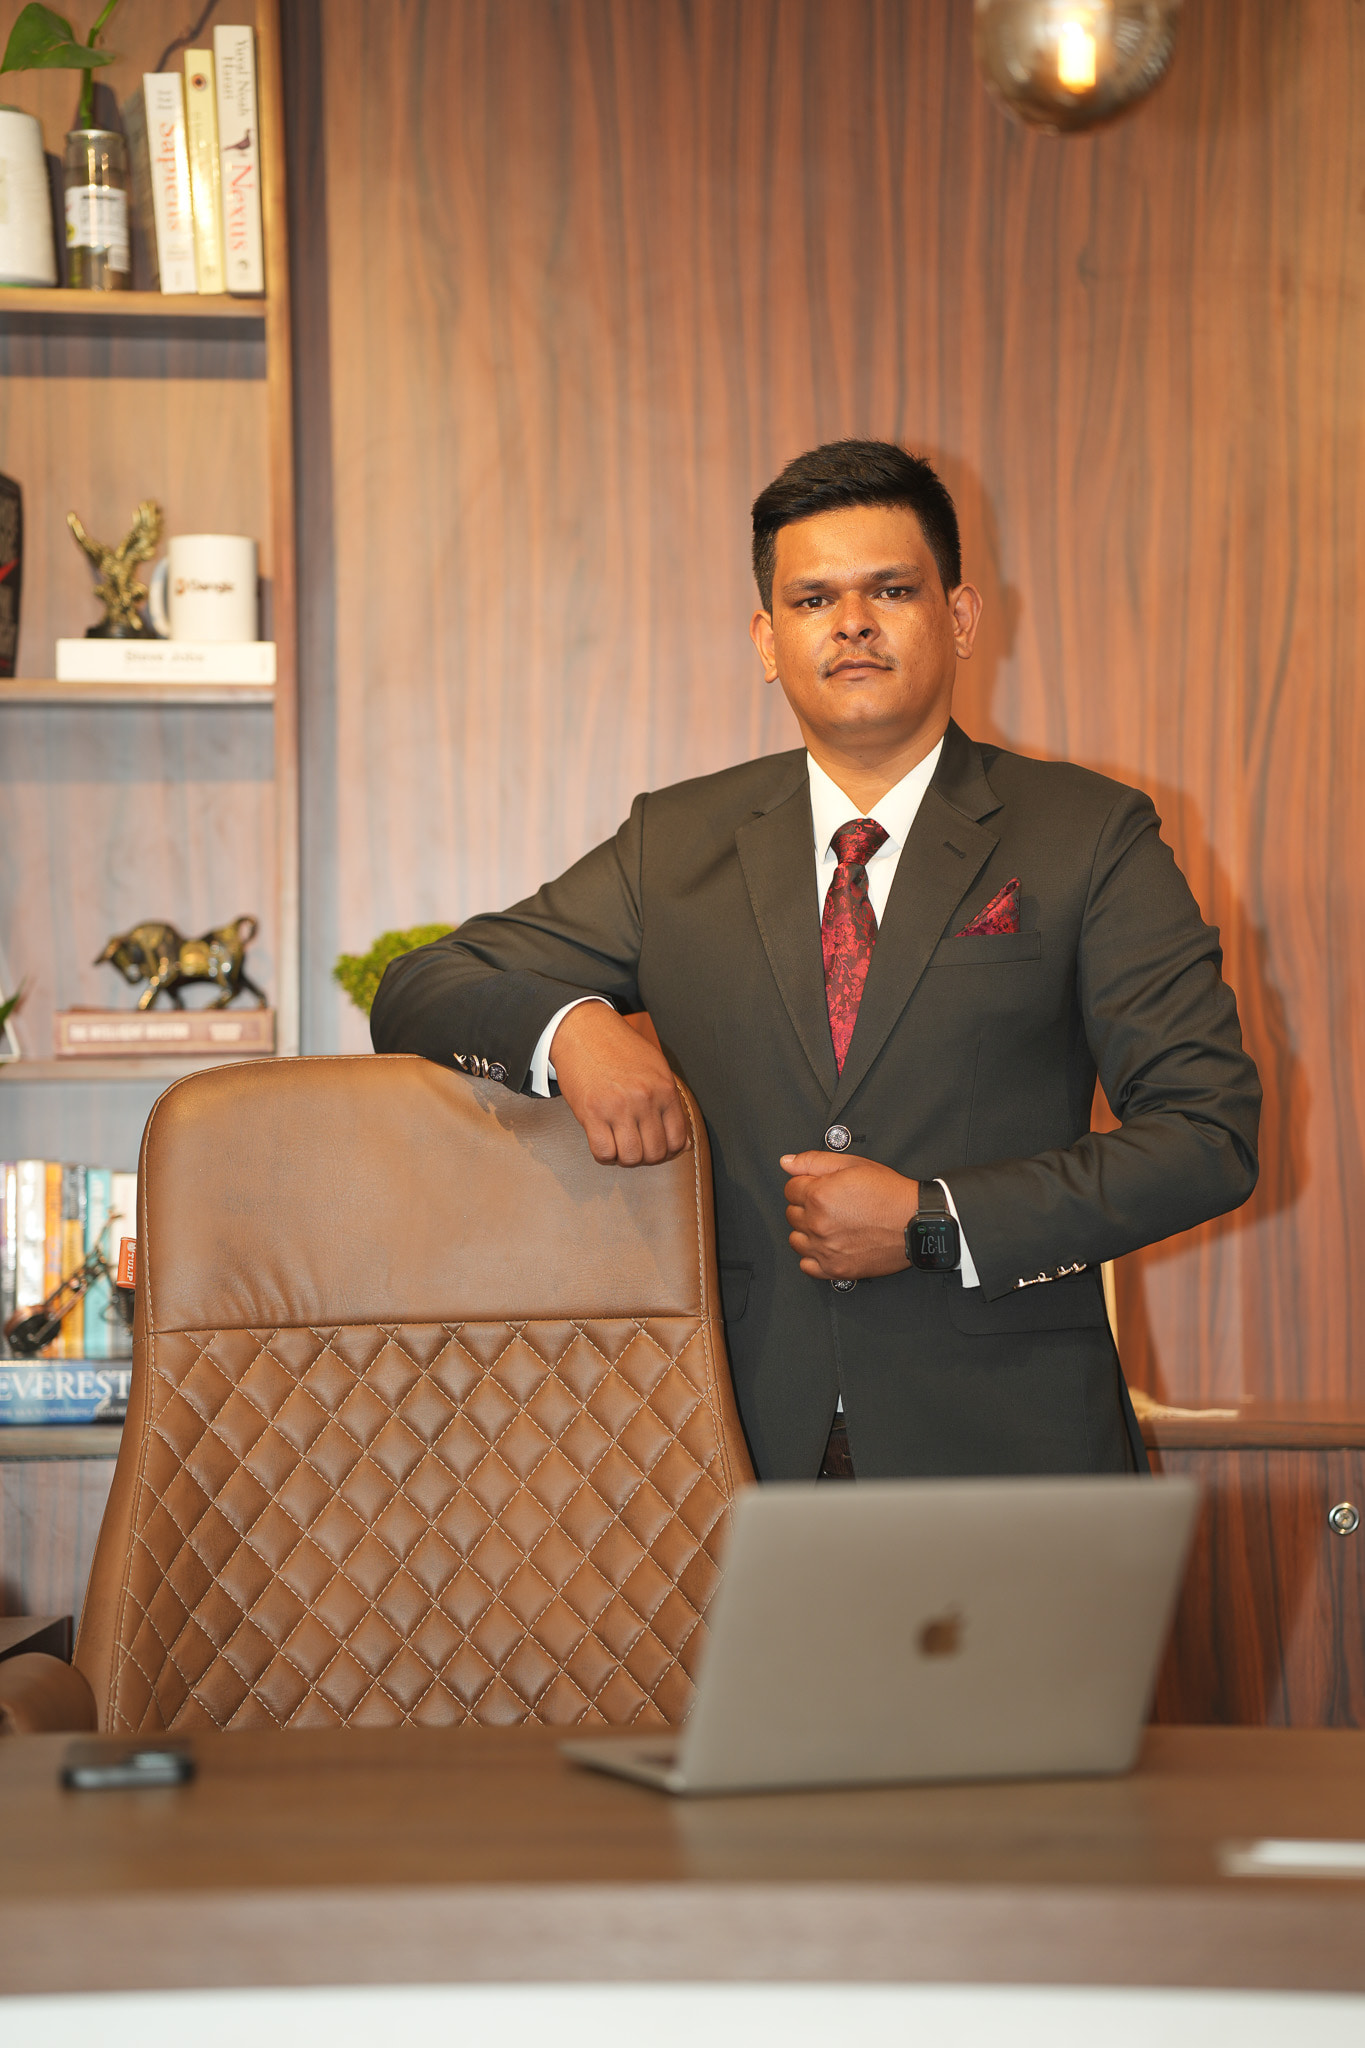
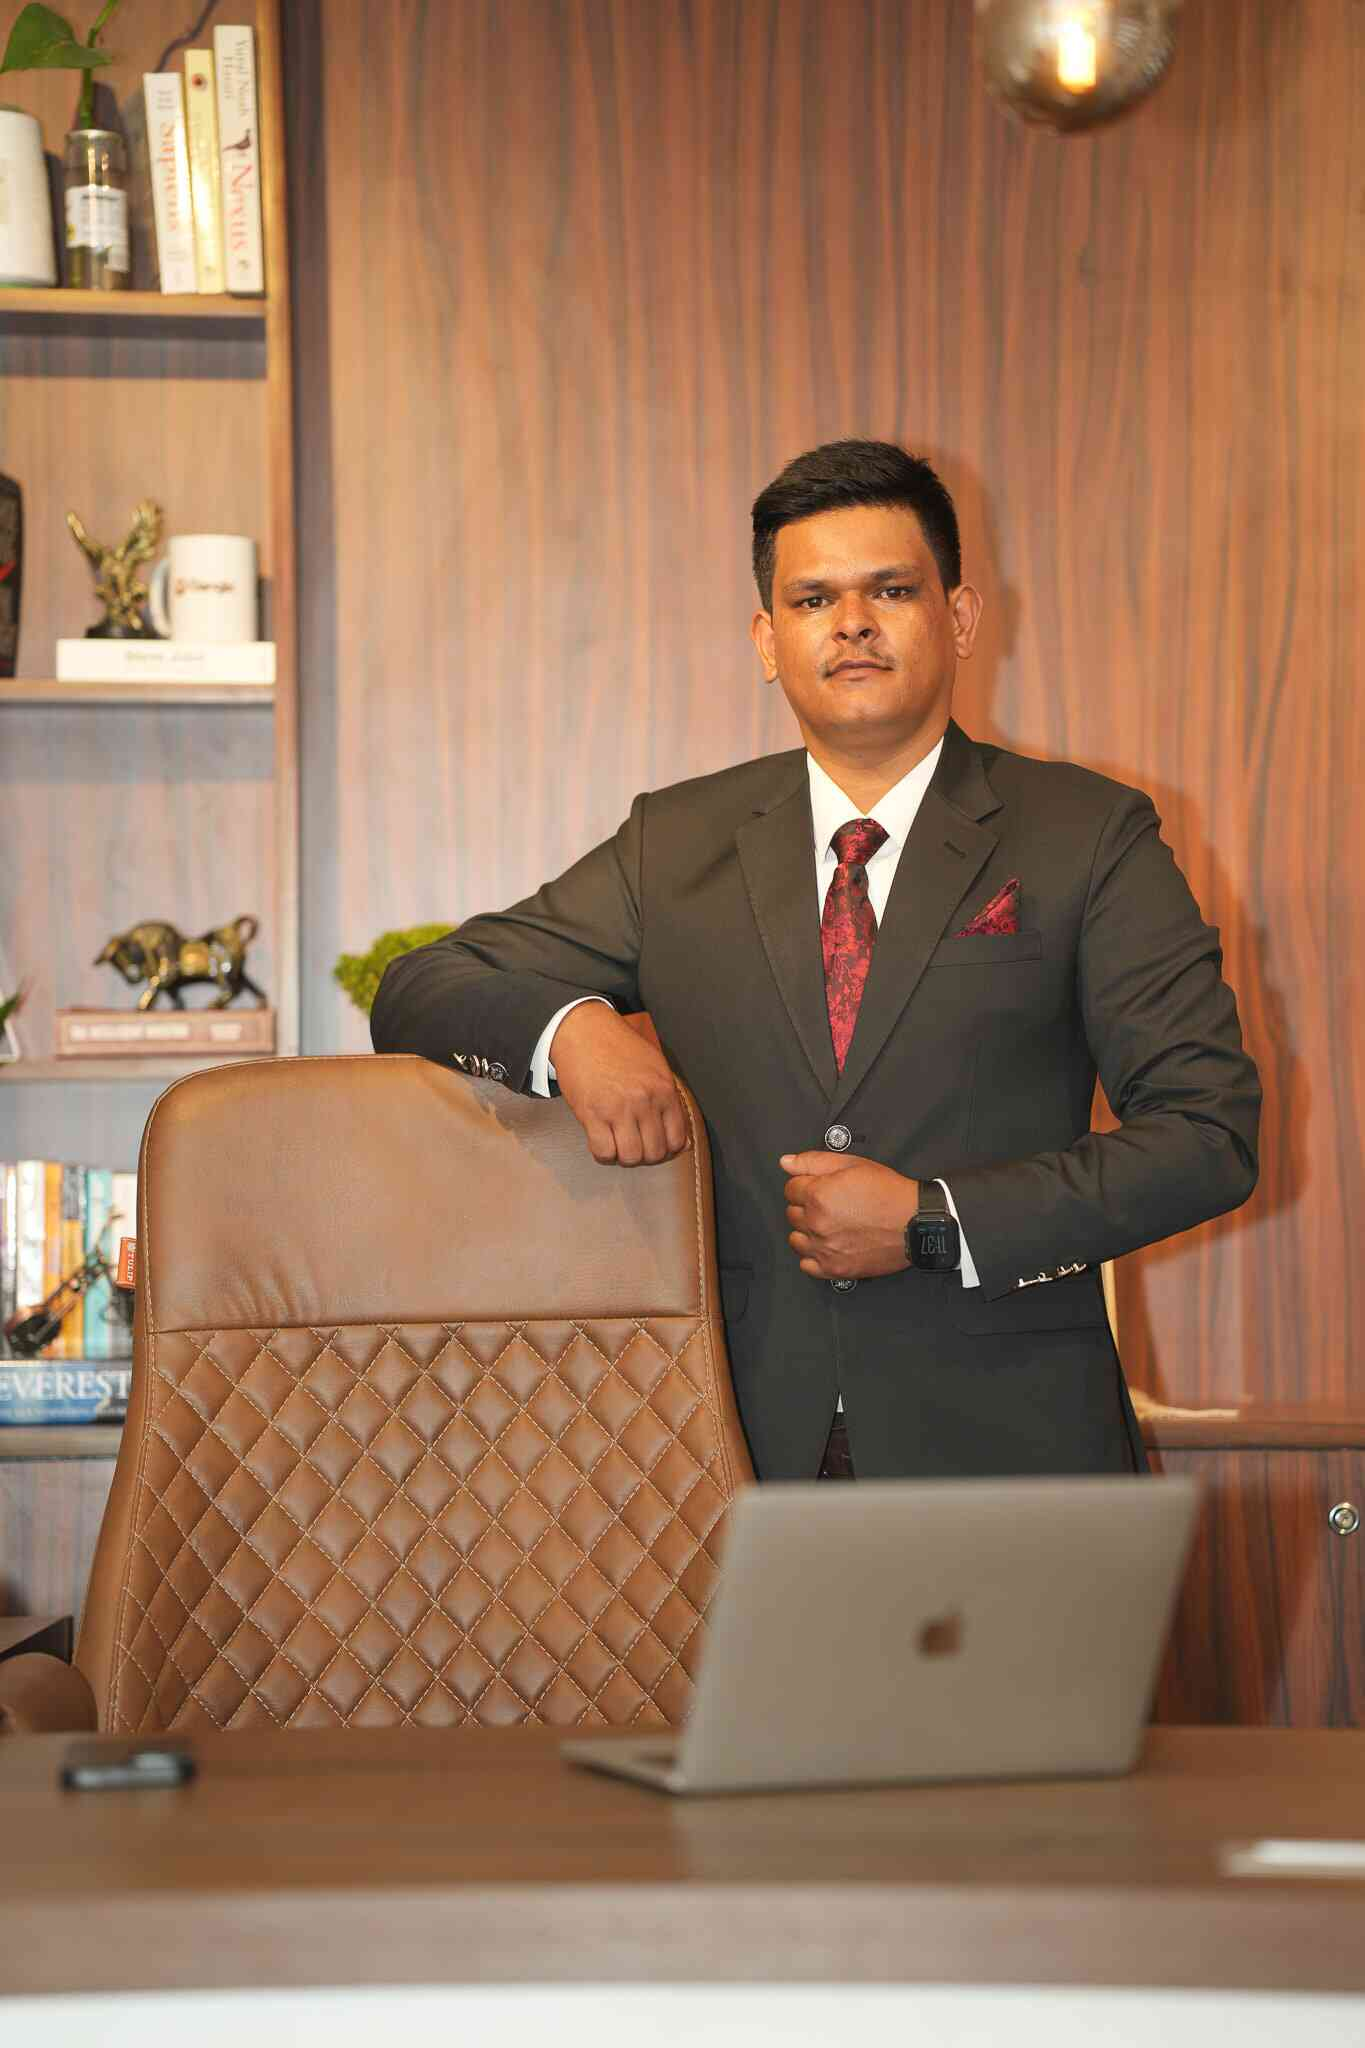
overall change

diff --git a/src/components/About/OurStory/OurStoryAnimation2.jsx b/src/components/About/OurStory/OurStoryAnimation2.jsx
@@ -49,7 +49,7 @@ const OurStoryAnimation2 = () => {
 
       if (!car || !path || !section) return;
 
-      // Kill any existing animations
+      // Kill any existing animations first
       gsap.killTweensOf(car);
       ScrollTrigger.getAll().forEach((trigger) => {
         if (trigger.vars.trigger === section) {
@@ -57,12 +57,13 @@ const OurStoryAnimation2 = () => {
         }
       });
 
-      // Clear transforms
+      // Clear any existing transforms
       gsap.set(car, { clearProps: "all" });
 
+      // Set initial position at the start of the path
       gsap.set(car, {
         motionPath: {
-          path,
+          path: path,
           align: path,
           alignOrigin: [0.5, 0.5],
           autoRotate: true,
@@ -72,9 +73,10 @@ const OurStoryAnimation2 = () => {
         immediateRender: true,
       });
 
+      // Create the scroll-triggered animation
       motionTween = gsap.to(car, {
         motionPath: {
-          path,
+          path: path,
           align: path,
           alignOrigin: [0.5, 0.5],
           autoRotate: true,
@@ -86,6 +88,19 @@ const OurStoryAnimation2 = () => {
           start: "top top",
           end: "bottom bottom",
           scrub: 1,
+          markers: false,
+          onRefresh: () => {
+            // gsap.set(car, {
+            //   motionPath: {
+            //     path: path,
+            //     align: path,
+            //     alignOrigin: [0.5, 0.5],
+            //     autoRotate: true,
+            //     start: 0,
+            //     end: 0,
+            //   },
+            // });
+          },
         },
         duration: 1,
         ease: "none",
@@ -94,6 +109,7 @@ const OurStoryAnimation2 = () => {
 
     initAnimation();
 
+    // Cleanup function
     return () => {
       if (motionTween) {
         motionTween.scrollTrigger?.kill();
@@ -103,15 +119,19 @@ const OurStoryAnimation2 = () => {
     };
   }, [isMobile]);
 
+  // Handle window resize
   useEffect(() => {
     const handleResize = () => {
       ScrollTrigger.refresh();
     };
+
     const debouncedResize = debounce(handleResize, 100);
     window.addEventListener("resize", debouncedResize);
+
     return () => window.removeEventListener("resize", debouncedResize);
   }, []);
 
+  // Simple debounce function
   const debounce = (func, wait) => {
     let timeout;
     return function executedFunction(...args) {
@@ -131,39 +151,8 @@ const OurStoryAnimation2 = () => {
       style={{ height: "200vh", position: "relative" }}
       className="bg-highlight"
     >
+      {/* DESKTOP VIEW */}
       {!isMobile && (
-      
-          <svg
-            viewBox="0 0 1920 1080"
-            preserveAspectRatio="xMidYMid meet"
-            style={{
-              width: "100vw",
-              height: "100vh",
-              position: "sticky",
-              top: 0,
-              zIndex: 0,
-            }}
-          >
-            <defs>
-              <linearGradient
-                id="pathGradient"
-                x1="0%"
-                y1="0%"
-                x2="100%"
-                y2="100%"
-              >
-                <stop offset="0%" stopColor="#4CAF50" />
-                <stop offset="50%" stopColor="#2E7D32" />
-                <stop offset="100%" stopColor="#4CAF50" />
-              </linearGradient>
-              <filter id="glow">
-                <feGaussianBlur stdDeviation="3" result="coloredBlur" />
-                <feMerge>
-                  <feMergeNode in="coloredBlur" />
-                  <feMergeNode in="SourceGraphic" />
-                </feMerge>
-              </filter>
-            </defs>
         <svg
           viewBox="0 0 1920 1080"
           preserveAspectRatio="xMidYMid meet"
@@ -196,50 +185,43 @@ const OurStoryAnimation2 = () => {
             </filter>
           </defs>
 
-            <image
-              href="/Maps/nep.png"
-              x="1400"
-              y="50"
-              width="420"
-              height="300"
-            />
-            <image
-              href="/Maps/ind.png"
-              x="50"
-              y="750"
-              width="400"
-              height="320"
-            />
+          <image
+            href="/Maps/nep.png"
+            x="1400"
+            y="50"
+            width="420"
+            height="300"
+          />
+          <image href="/Maps/ind.png" x="50" y="750" width="400" height="320" />
 
-            <path
-              ref={desktopPathRef}
-              d="M 1560 200 
+          <path
+            ref={desktopPathRef}
+            d="M 1560 200 
      C 1400 280, 1200 380, 980 480 
      C 800 560, 620 620, 440 700 
      C 300 760, 200 800, 180 870"
-              fill="none"
-              stroke="url(#pathGradient)"
-              strokeWidth="3"
-              strokeDasharray="15,10"
-              filter="url(#glow)"
-              strokeLinecap="round"
-            />
+            fill="none"
+            stroke="url(#pathGradient)"
+            strokeWidth="3"
+            strokeDasharray="15,10"
+            filter="url(#glow)"
+            strokeLinecap="round"
+          />
 
-            <circle cx="1560" cy="200" r="8" fill="#4CAF50" opacity="0.8" />
-            <circle cx="180" cy="870" r="8" fill="#4CAF50" opacity="0.8" />
-            <image
-              ref={carRef}
-              href="/assets/img/truck4.png"
-              width="120"
-              height="120"
-              x="-60"
-              y="40"
-              style={{
-                transformOrigin: "20px 20px",
-                transform: rotate(85),
-              }}
-            />
-          </svg>
+          <circle cx="1560" cy="200" r="8" fill="#4CAF50" opacity="0.8" />
+          <circle cx="180" cy="870" r="8" fill="#4CAF50" opacity="0.8" />
+          <image
+            ref={carRef}
+            href="/assets/img/truck4.png"
+            width="120"
+            height="120"
+            x="-60"
+            y="40"
+            style={{
+              transformOrigin: "20px 20px",
+              transform: rotate(85),
+            }}
+          />
         </svg>
       )}
 
@@ -306,27 +288,6 @@ const OurStoryAnimation2 = () => {
           />
         </svg>
       )}
-          <circle cx="1560" cy="200" r="8" fill="#4CAF50" opacity="0.8" />
-          <circle cx="180" cy="870" r="8" fill="#4CAF50" opacity="0.8" />
-         
-          <g ref={carRef}>
-            <g transform="translate(0, 60)">
-              <image
-                href="/assets/truck3.png"
-                width="120"
-                height="120"
-                x="-60"
-                y="60"
-                className="truck"
-                style={{
-                  transformOrigin: "center center",
-                  transformBox: "fill-box",
-                }}
-              />
-            </g>
-          </g>
-       
-    
     </div>
   );
 };

diff --git a/src/components/About/OurStory/OurStoryFounderMsg.jsx b/src/components/About/OurStory/OurStoryFounderMsg.jsx
@@ -64,7 +64,7 @@ function OurStoryFounderMsg() {
       >
         {/* Left Content (Text) - Always on left */}
         <motion.div
-          className="left w-[65%] md:w-1/2 text-xs md:text-lg md:leading-relaxed flex flex-col text-justify leading-relaxed"
+          className="left w-[65%] md:w-1/2 text-xs md:text-lg md:leading-relaxed flex flex-col  leading-relaxed"
           animate={controlsLeft}
           initial={{ x: -100, opacity: 0, scale: 0.95 }}
         >
@@ -110,7 +110,7 @@ function OurStoryFounderMsg() {
           <img
             src="/assets/img/Chairman's & Ceo.jpg"
             alt="Founder"
-            className="rounded-lg md:rounded-xl shadow-xl object-cover w-full h-[200px] md:h-[400px] lg:h-[500px]"
+            className="rounded-lg md:rounded-xl shadow-xl object-cover w-full h-[200px] md:h-[400px] lg:h-[500px] grayscale-100 hover:grayscale-0 transition duration-1000"
             style={{ objectPosition: "60% center" }}
           />
         </motion.div>

diff --git a/src/components/Journals/JournalsHero.jsx b/src/components/Journals/JournalsHero.jsx
@@ -79,7 +79,7 @@ const JournalsHero = () => {
   return (
     <section
       ref={heroRef}
-      className="relative w-full h-[70vh] mb-15 bg-cover bg-center text-white flex items-center justify-center overflow-hidden"
+      className="relative w-full h-[70vh]  bg-cover bg-center text-white flex items-center justify-center overflow-hidden"
       style={{
         // backgroundColor: "#1FA951",
         zIndex: "30px",

diff --git a/src/components/Sustainable/SustainableGoals.jsx b/src/components/Sustainable/SustainableGoals.jsx
@@ -86,7 +86,7 @@ const App = () => {
       title: "SDG 14: Life Below Water",
       description:
         "By avoiding water pollution and harmful chemicals, we protect aquatic ecosystems, supporting marine biodiversity.",
-      image: "/assets/img/sdg14.jpg",
+      image: "/assets/img/sdg14.jpeg",
     },
     {
       title: "SDG 15: Life on Land",
